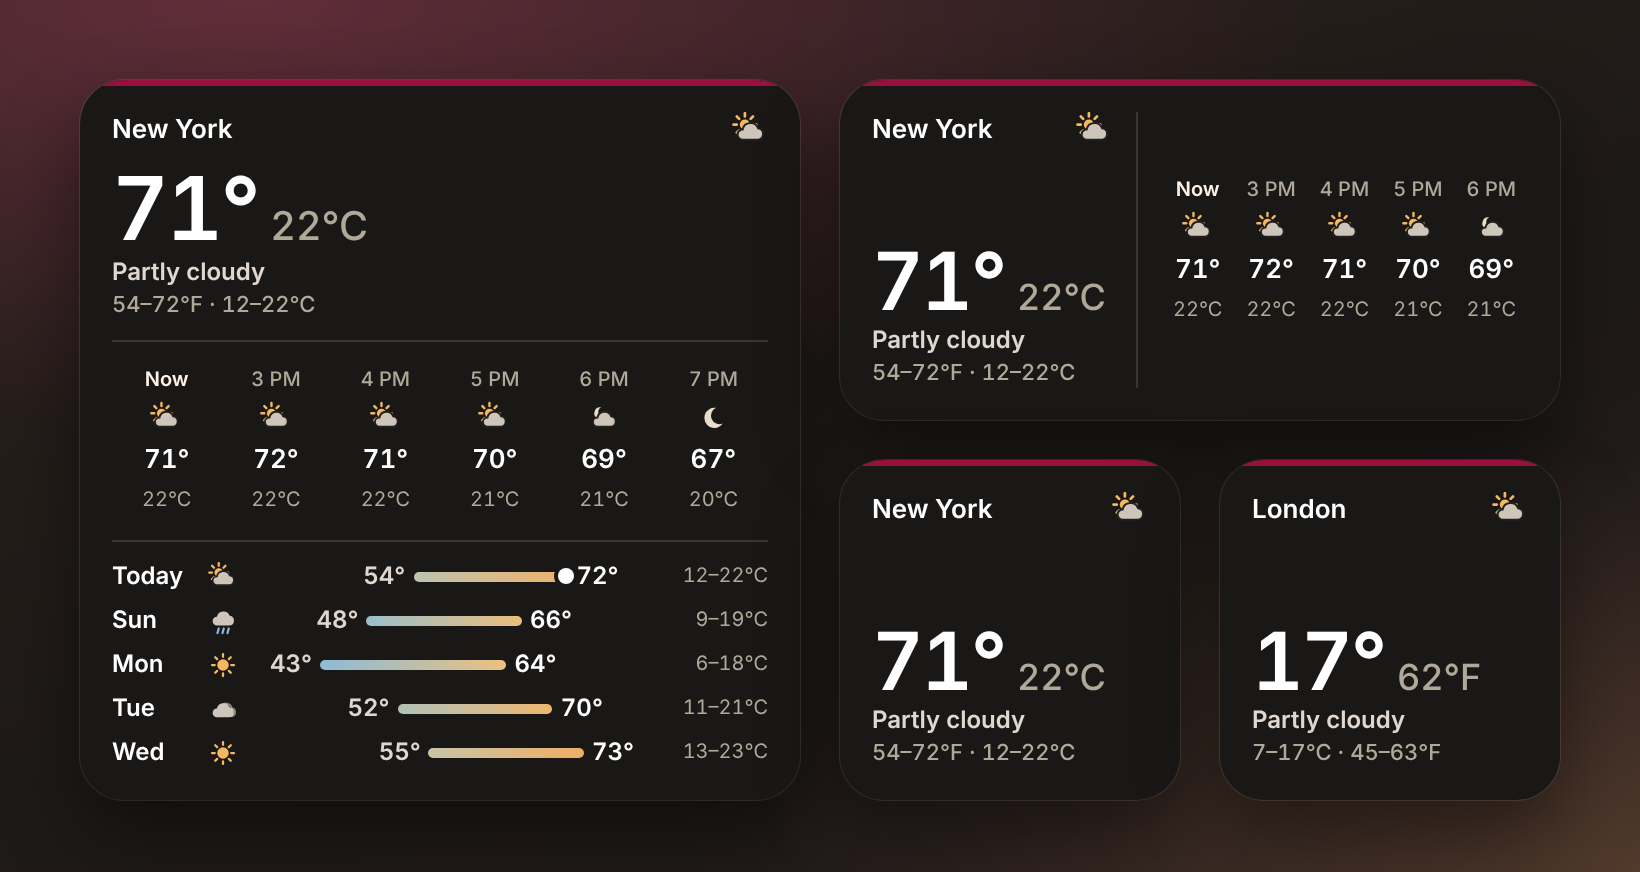
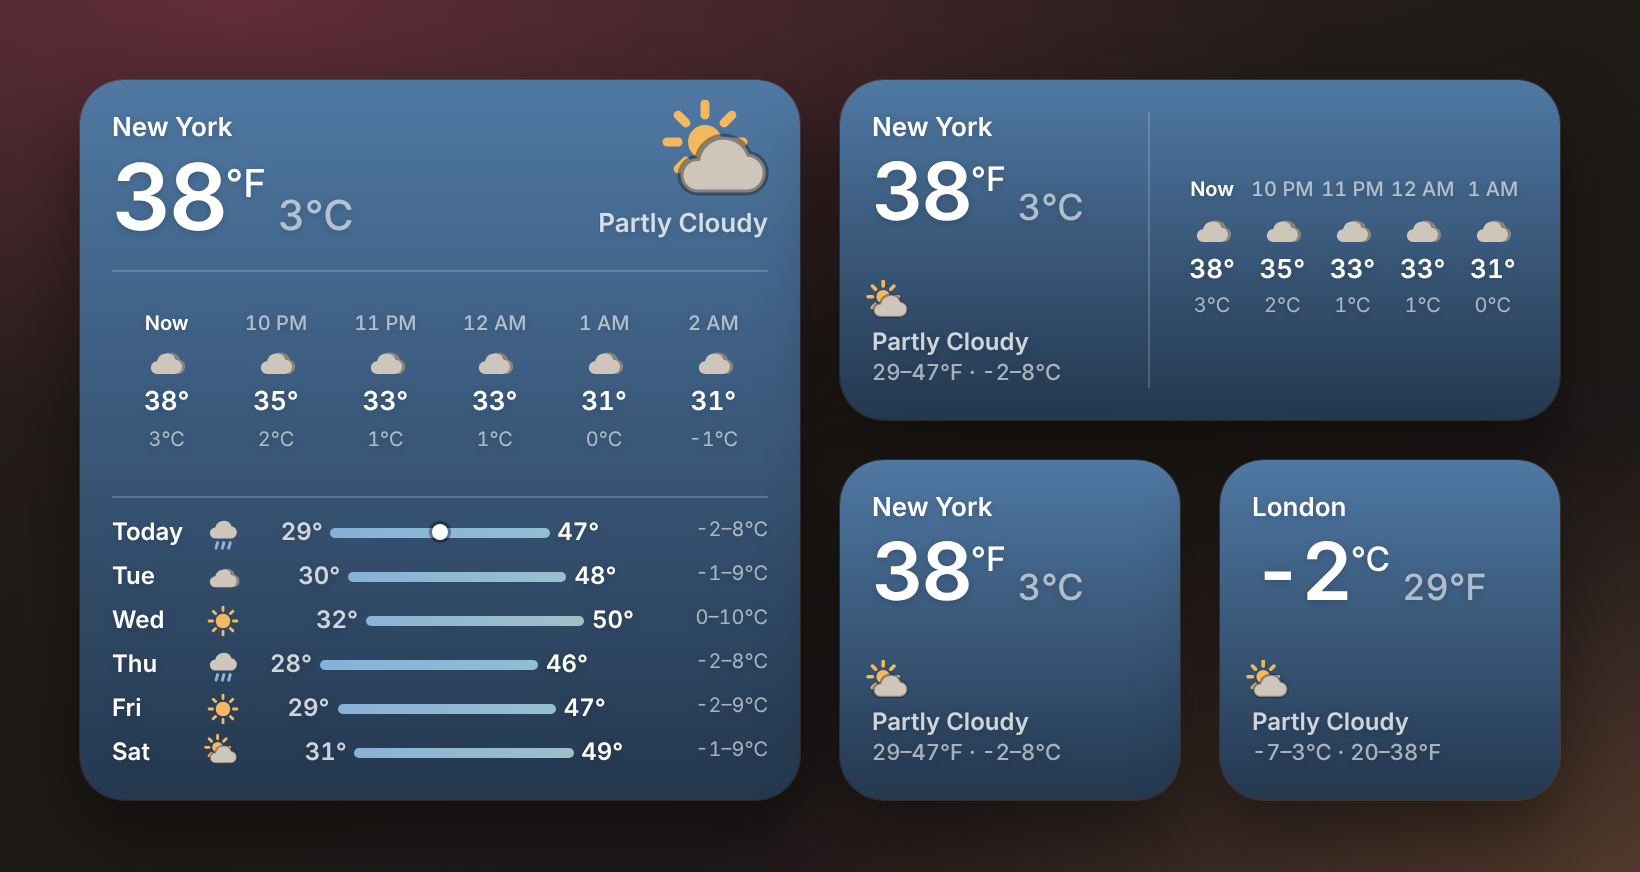
Product page and README say 10-day forecast; README pictures redrawn in the new look from the tests' simulated weather services
Claude-Session: https://claude.ai/code/session_014XBPgVSosxkwyDptpY7qX5

diff --git a/scripts/readme-shots.js b/scripts/readme-shots.js
@@ -1,56 +1,19 @@
 // Renders the README pictures from the web app (docs/app.html), with Playwright:
 //   node scripts/readme-shots.js
-// Open-Meteo is answered with a fixed, made-up forecast (an October afternoon) so the pictures
-// look the same every time and need no network: docs/screenshot-app.png and docs/screenshot-widgets.png.
+// The weather services are answered by the tests' simulated ones (tests/web-fixtures.js), so the
+// pictures need no network: docs/screenshot-app.png and docs/screenshot-widgets.png.
 const path = require('path');
 let playwright;
 try { playwright = require('playwright'); } catch { playwright = require(path.join(require('child_process').execSync('npm root -g').toString().trim(), 'playwright')); }
 
 const APP = 'file://' + path.resolve(__dirname, '../docs/app.html');
 const OUT = path.resolve(__dirname, '../docs');
-const DAY = '2026-10-17';
 
-// One city's forecast in Open-Meteo's shape: a gentle daily curve around `base` °C.
-function forecast(base, timezone) {
-  const pad = (n) => String(n).padStart(2, '0');
-  const date = (d) => { const t = new Date(Date.UTC(2026, 9, 17 + d)); return `${t.getUTCFullYear()}-${pad(t.getUTCMonth() + 1)}-${pad(t.getUTCDate())}`; };
-  const temp = (h) => +(base + 5 * Math.sin((h % 24 - 9) / 24 * 2 * Math.PI) - (h >= 24 ? 2 : 0)).toFixed(1);
-  const hourCodes = (h) => (h % 24 >= 13 && h % 24 <= 18 ? 2 : 1);   // partly cloudy through the afternoon, matching "now"
-  const hours = Array.from({ length: 48 }, (_, h) => h);
-  const days = [0, 1, 2, 3, 4, 5];
-  const swing = [0, -3, -4, -1, 1, 2];
-  return {
-    timezone,
-    current: { time: `${DAY}T14:00`, temperature_2m: temp(14), apparent_temperature: temp(14) - 1, relative_humidity_2m: 58, weather_code: 2, wind_speed_10m: 14, is_day: 1 },
-    hourly: {
-      time: hours.map((h) => `${date(Math.floor(h / 24))}T${pad(h % 24)}:00`),
-      temperature_2m: hours.map(temp),
-      weather_code: hours.map(hourCodes),
-      precipitation_probability: hours.map((h) => (h >= 30 && h <= 34 ? 40 : 5)),
-      is_day: hours.map((h) => (h % 24 >= 7 && h % 24 < 18 ? 1 : 0)),
-    },
-    daily: {
-      time: days.map(date),
-      weather_code: [2, 61, 0, 3, 1, 2],
-      temperature_2m_max: days.map((d) => +(base + 5 + swing[d]).toFixed(1)),
-      temperature_2m_min: days.map((d) => +(base - 5 + swing[d] - (d === 2 ? 2 : 0)).toFixed(1)),
-      precipitation_probability_max: [10, 60, 0, 5, 10, 0],
-      sunrise: days.map((d) => `${date(d)}T07:10`),
-      sunset: days.map((d) => `${date(d)}T18:20`),
-    },
-  };
-}
-const CITIES = [[40.7, 17, 'America/New_York'], [51.5, 12, 'Europe/London'], [35.7, 19, 'Asia/Tokyo']];
+const { serveApis } = require('../tests/web-fixtures.js');
 
 async function page(browser, url, viewport) {
-  // New York time, a few minutes after the forecast's 2 PM, so "Updated …" agrees with the city's clock.
   const context = await browser.newContext({ viewport, deviceScaleFactor: 2, timezoneId: 'America/New_York' });
-  await context.clock.setFixedTime(new Date('2026-10-17T18:05:00Z'));
-  await context.route('**/api.open-meteo.com/**', (route) => {
-    const lat = +new URL(route.request().url()).searchParams.get('latitude');
-    const [, base, tz] = CITIES.find(([l]) => Math.abs(l - lat) < 1) || CITIES[0];
-    route.fulfill({ contentType: 'application/json', body: JSON.stringify(forecast(base, tz)) });
-  });
+  await serveApis(context, { delay: { forecast: 0, aq: 0, alerts: 0, archive: 0 }, now: { code: 2, isDay: true } });
   const p = await context.newPage();
   await p.addInitScript(() => localStorage.setItem('twodegrees.unit', '"F"'));
   await p.goto(url);
@@ -60,10 +23,11 @@ async function page(browser, url, viewport) {
 (async () => {
   const browser = await playwright.chromium.launch();
 
-  // The app, forecast open, with room around it for its shadow.
-  const app = await page(browser, APP, { width: 600, height: 1400 });
+  // The app, with room around it for its shadow.
+  const app = await page(browser, APP, { width: 600, height: 2600 });
   await app.waitForSelector('.temps');
-  await app.click('#daysToggle');
+  await app.waitForTimeout(1500);
+  if (await app.isVisible('#askLocNo')) await app.click('#askLocNo');
   await app.waitForTimeout(300);
   const box = await app.locator('main.panel').boundingBox();
   await app.screenshot({ path: path.join(OUT, 'screenshot-app.png'), clip: { x: box.x - 40, y: box.y - 32, width: box.width + 80, height: box.height + 72 } });

diff --git a/docs/index.html b/docs/index.html
@@ -246,7 +246,7 @@
     <div class="ftile"><div class="k">Mac · Menu bar</div><h3>And one click away.</h3><p>The reading sits in your menu bar. Tear the panel off into a window, keep it on top, pick from five sizes.</p><div class="sample">☁ <b>57°</b> · 14°</div></div>
     <div class="ftile"><div class="k">Widgets</div><h3>On every screen, too.</h3><p>Small, medium and large widgets on the Mac desktop and on iPhone, iPad and Android Home Screens, plus the iPhone Lock Screen. Each can follow your city or keep its own. <a class="inline" href="#widgets">See them live ›</a></p></div>
     <div class="ftile"><div class="k">Next 24 hours</div><h3>The day, hour by hour.</h3><p>A scrolling strip with a temperature line, the sky for each hour, and the chance of rain when it matters.</p></div>
-    <div class="ftile"><div class="k">5-day forecast</div><h3>Five days on one scale.</h3><p>Lows and highs on range bars that share one labelled scale, with a dot for right now. Tap to open.</p></div>
+    <div class="ftile"><div class="k">10-day forecast</div><h3>Ten days on one scale.</h3><p>Lows and highs in both units, on range bars that share one scale, with a dot for right now. Tap a day for its details.</p></div>
     <div class="ftile"><div class="k">Alerts and radar</div><h3>See what’s coming.</h3><p>Severe weather alerts from the National Weather Service (US), a live rain map, rain by the quarter hour for the next two hours, and a notification when it’s about to start.</p></div>
     <div class="ftile"><div class="k">Every detail</div><h3>Tap a day for the whole story.</h3><p>Hourly temperature, rain and wind charts, air quality and pollen, visibility, the moon, and how today compares with normal and with the records.</p></div>
     <div class="ftile"><div class="k">Plain words</div><h3>One sentence tells you everything.</h3><p>“Rain likely around 3 PM (60%).” “Warming to 68°F / 20°C by 2 PM.”</p></div>

diff --git a/web/site.html b/web/site.html
@@ -246,7 +246,7 @@
     <div class="ftile"><div class="k">Mac · Menu bar</div><h3>And one click away.</h3><p>The reading sits in your menu bar. Tear the panel off into a window, keep it on top, pick from five sizes.</p><div class="sample">☁ <b>57°</b> · 14°</div></div>
     <div class="ftile"><div class="k">Widgets</div><h3>On every screen, too.</h3><p>Small, medium and large widgets on the Mac desktop and on iPhone, iPad and Android Home Screens, plus the iPhone Lock Screen. Each can follow your city or keep its own. <a class="inline" href="#widgets">See them live ›</a></p></div>
     <div class="ftile"><div class="k">Next 24 hours</div><h3>The day, hour by hour.</h3><p>A scrolling strip with a temperature line, the sky for each hour, and the chance of rain when it matters.</p></div>
-    <div class="ftile"><div class="k">5-day forecast</div><h3>Five days on one scale.</h3><p>Lows and highs on range bars that share one labelled scale, with a dot for right now. Tap to open.</p></div>
+    <div class="ftile"><div class="k">10-day forecast</div><h3>Ten days on one scale.</h3><p>Lows and highs in both units, on range bars that share one scale, with a dot for right now. Tap a day for its details.</p></div>
     <div class="ftile"><div class="k">Alerts and radar</div><h3>See what’s coming.</h3><p>Severe weather alerts from the National Weather Service (US), a live rain map, rain by the quarter hour for the next two hours, and a notification when it’s about to start.</p></div>
     <div class="ftile"><div class="k">Every detail</div><h3>Tap a day for the whole story.</h3><p>Hourly temperature, rain and wind charts, air quality and pollen, visibility, the moon, and how today compares with normal and with the records.</p></div>
     <div class="ftile"><div class="k">Plain words</div><h3>One sentence tells you everything.</h3><p>“Rain likely around 3 PM (60%).” “Warming to 68°F / 20°C by 2 PM.”</p></div>

diff --git a/README.md b/README.md
@@ -15,7 +15,7 @@ Made by <a href="https://bradcowdrey.com">Bradley Cowdrey · bradcowdrey.com</a>
 </p>
 
 <p align="center">
-  <a href="https://bradcowdrey.com/two-degrees"><img src="docs/screenshot-app.png" width="380" alt="Two Degrees: New York at 71°F with 22°C beside it, the next 24 hours, and a 5-day forecast with each day's low and high at the ends of its bar. Click to try it in your browser."></a><br>
+  <a href="https://bradcowdrey.com/two-degrees"><img src="docs/screenshot-app.png" width="380" alt="Two Degrees: New York with the temperature in °F and °C side by side on the city's sky, the next 24 hours, a 10-day forecast and twelve detail tiles. Click to try it in your browser."></a><br>
   <sub>Click the picture to try the live app at <a href="https://bradcowdrey.com/two-degrees">bradcowdrey.com/two-degrees</a> (also on <a href="https://bradleycowdrey.github.io/two-degrees/">GitHub Pages</a>).</sub>
 </p>
 
@@ -46,7 +46,7 @@ version is on [Releases](https://github.com/bradleycowdrey/two-degrees/releases)
 - **Widgets**: small, medium and large desktop / Notification Center widgets. Each picks its own city (search any place) and which unit is large. Right-click the desktop → **Edit Widgets** → search **Two Degrees**.
 - **Borrowed from Meridian**: drag the menu bar panel to tear it off into a window, window position (left, centre, right), keep on top, five sizes (⌘+ / ⌘−) and SF Pro or Inter.
 - **Next 24 hours**: a scrolling strip with a temperature line, icons, and rain chance when it's 20% or more.
-- **5-day forecast**: lows and highs in both units, on range bars drawn to one shared, labelled scale (ticks every 10°F / 5°C), with a dot for right now.
+- **10-day forecast**: lows and highs in both units, on range bars drawn to one shared scale, with a dot for right now. Click a day for its details.
 - **One plain sentence**: "Rain likely around 3 PM (60%)" or "Warming to 68°F / 20°C by 2 PM".
 - **Up to 20 cities**: search any place on Earth; switch with one click; Add | Edit works just like Meridian's.
 - **Share**: the same Share button as Meridian and Cowdrey.MD.
